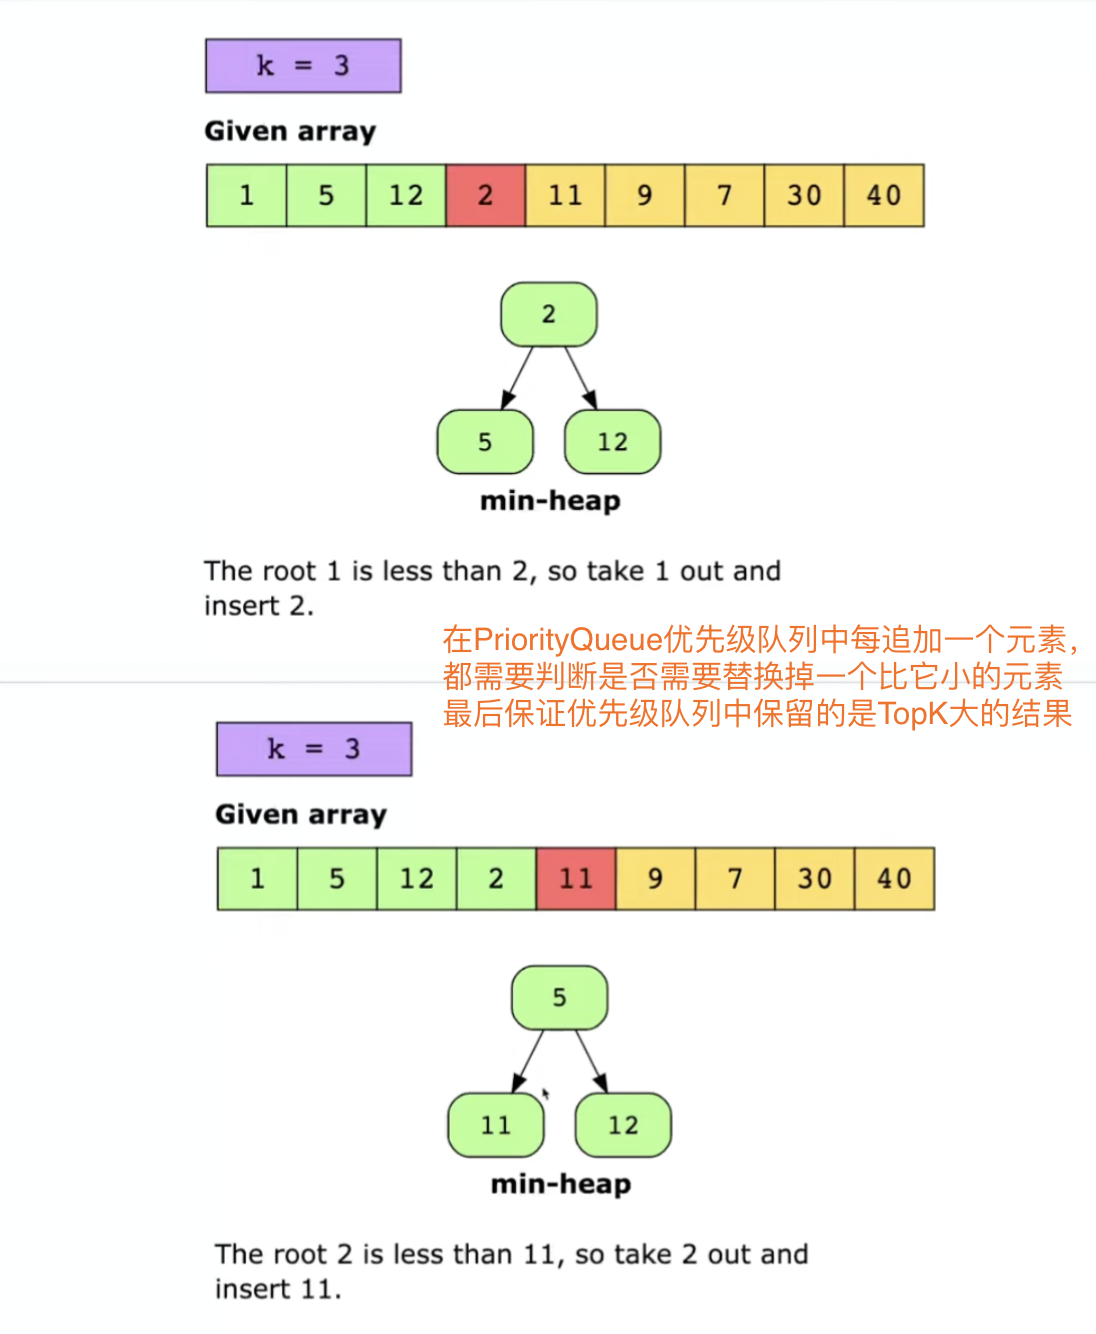
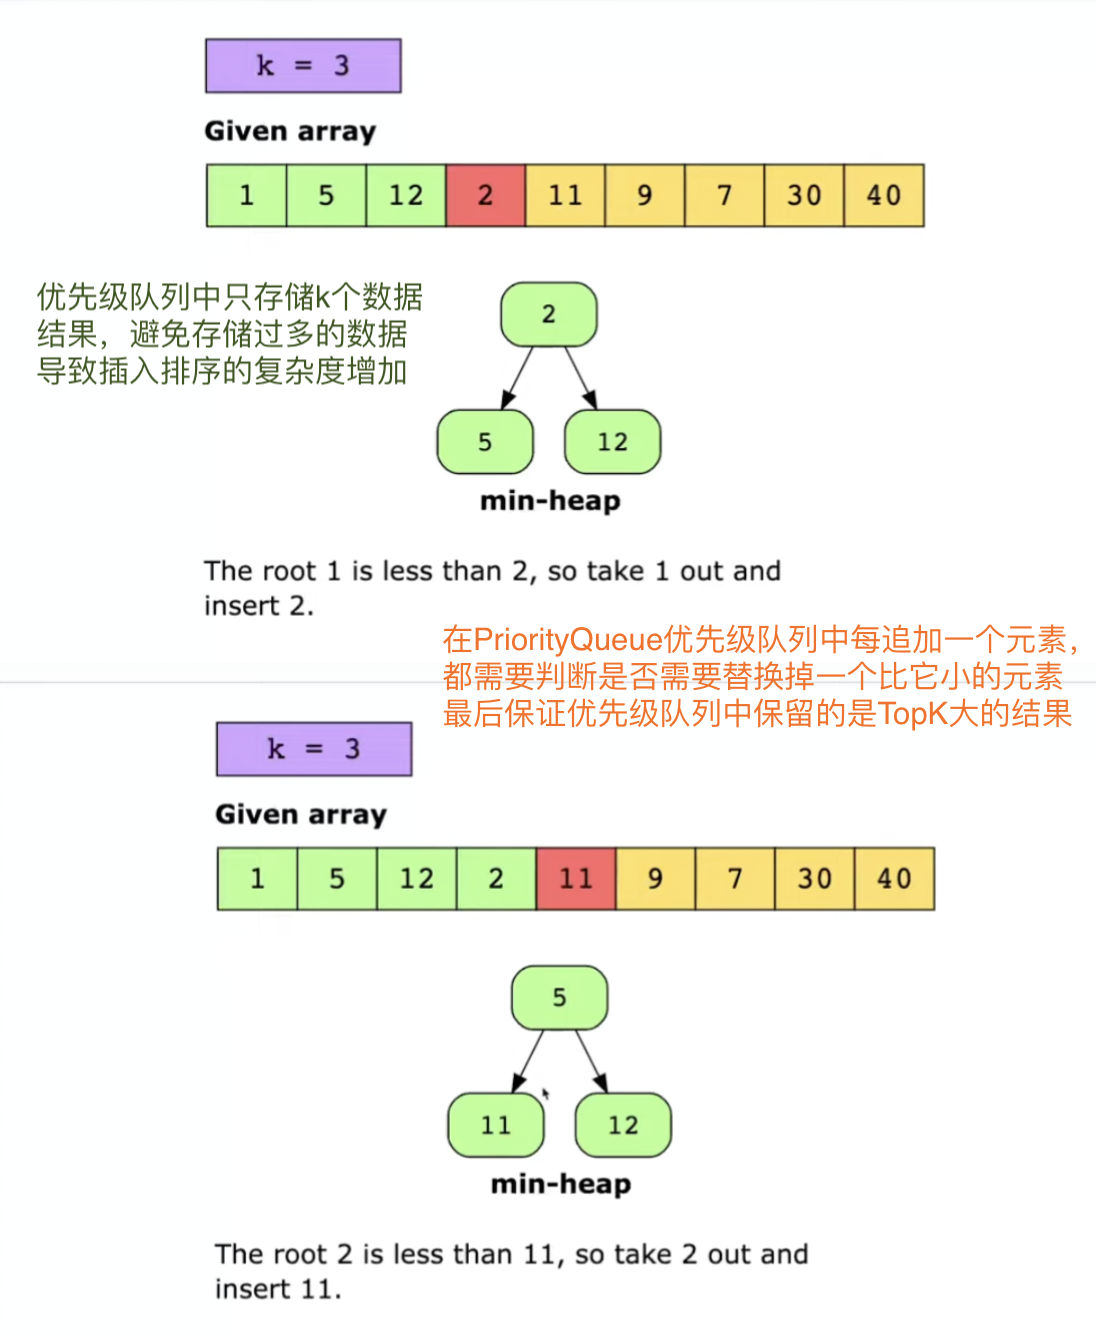
add algo complexity for priority queue questions

Changed region(s): [[0.031, 0.2151, 0.4033, 0.3073]]

diff --git a/algo-data-structures/src/main/java/templates/k_problems/priority_queue/KthLargestElement.java b/algo-data-structures/src/main/java/templates/k_problems/priority_queue/KthLargestElement.java
@@ -15,6 +15,9 @@ public class KthLargestElement {
     //
     // 1 <= k <= nums.length <= 10^5
     // -10^4 <= nums[i] <= 10^4
+    //
+    // O(k + (n-k)*log(k)) 最差情况下min-deap最小堆每次插入新数据时都需要循环到堆的底部
+    // O(k)                额外存储了k个结果数据
     public int findKthLargest(int[] nums, int k) {
         PriorityQueue<Integer> priorityQueue = new PriorityQueue<>();
         for (int index=0; index < k; index++) {
@@ -28,7 +31,7 @@ public class KthLargestElement {
             }
         }
 
-        // 最后优先级队列的Root节点就是结果
+        // 优先级队列的Root节点就是结果(TopK中的最小值)
         return priorityQueue.poll();
     }
 }

diff --git a/algo-data-structures/src/main/java/templates/k_problems/priority_queue/KPairsSmallestDistance.java b/algo-data-structures/src/main/java/templates/k_problems/priority_queue/KPairsSmallestDistance.java
@@ -1,6 +1,6 @@
 package templates.k_problems.priority_queue;
 
-public class KSmallestPairDistance {
+public class KPairsSmallestDistance {
 
     // TODO. 对数据的特征(距离)进行优先级排序，最后从Queue中拿出结果
     // Find K-th Smallest Pair Distance
